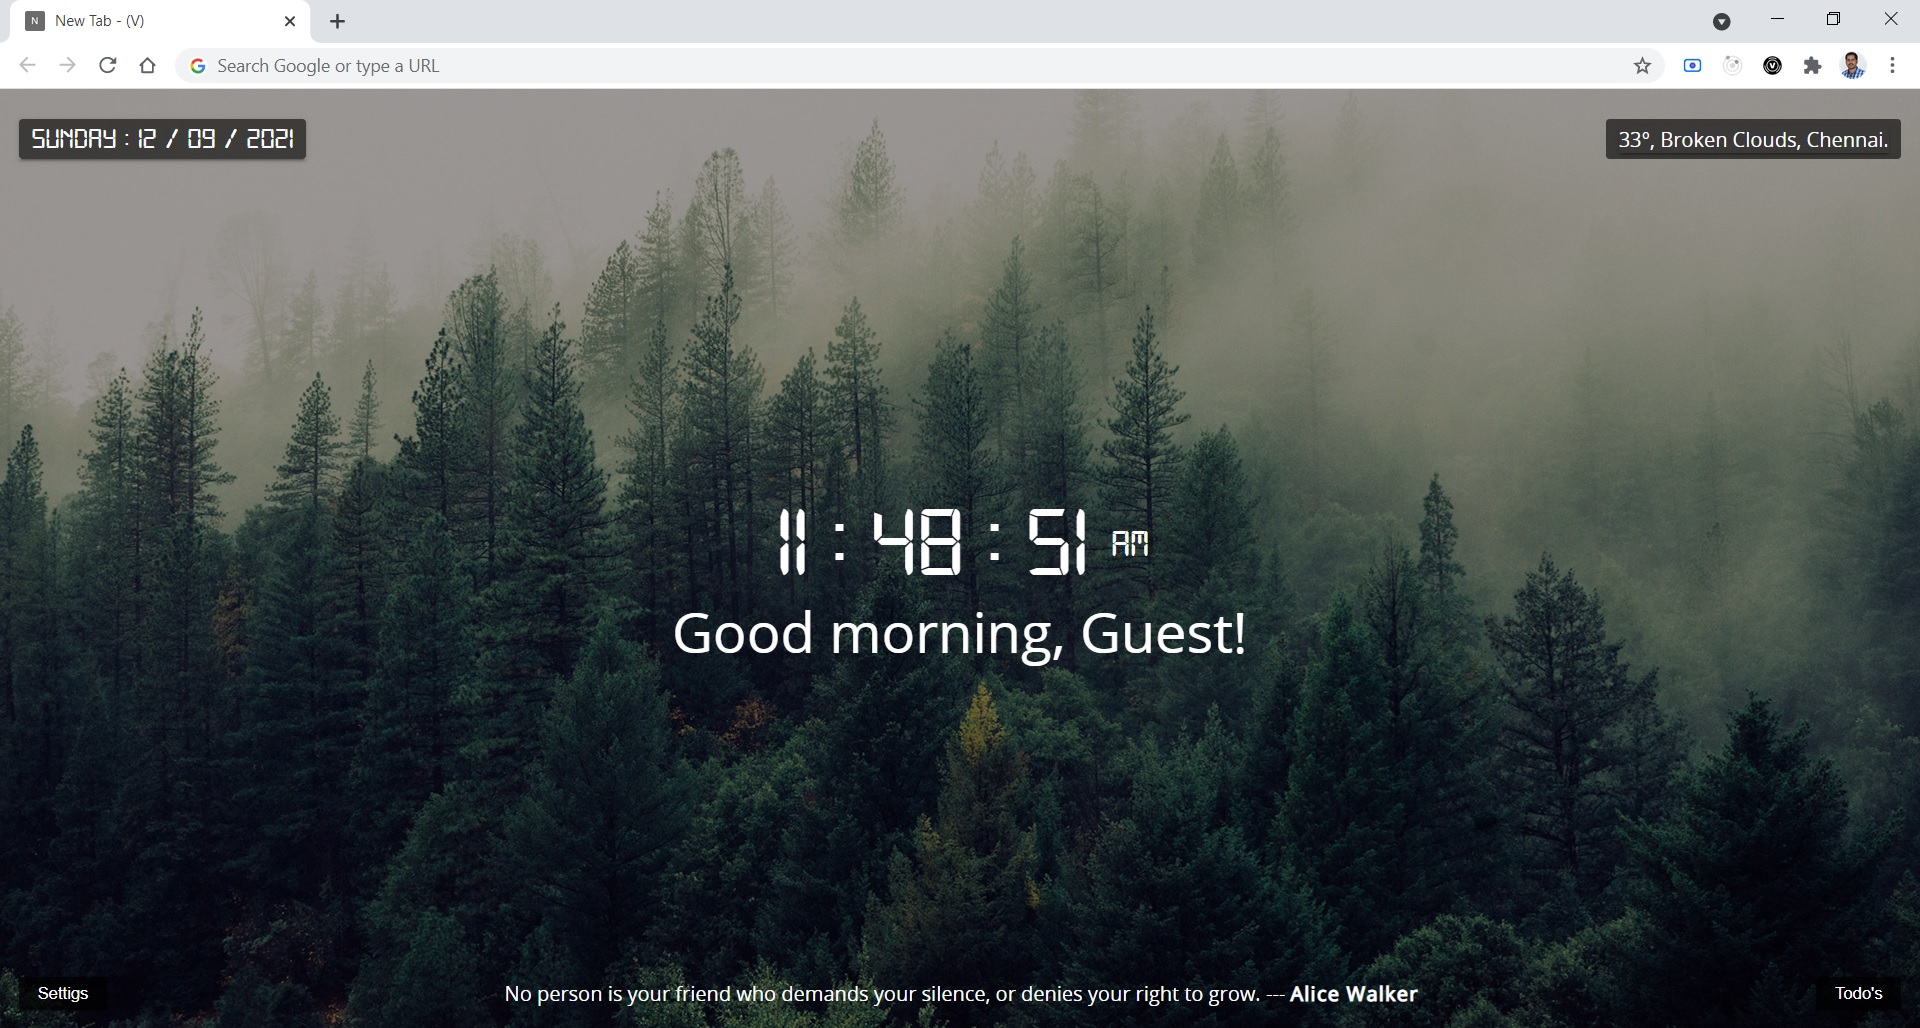
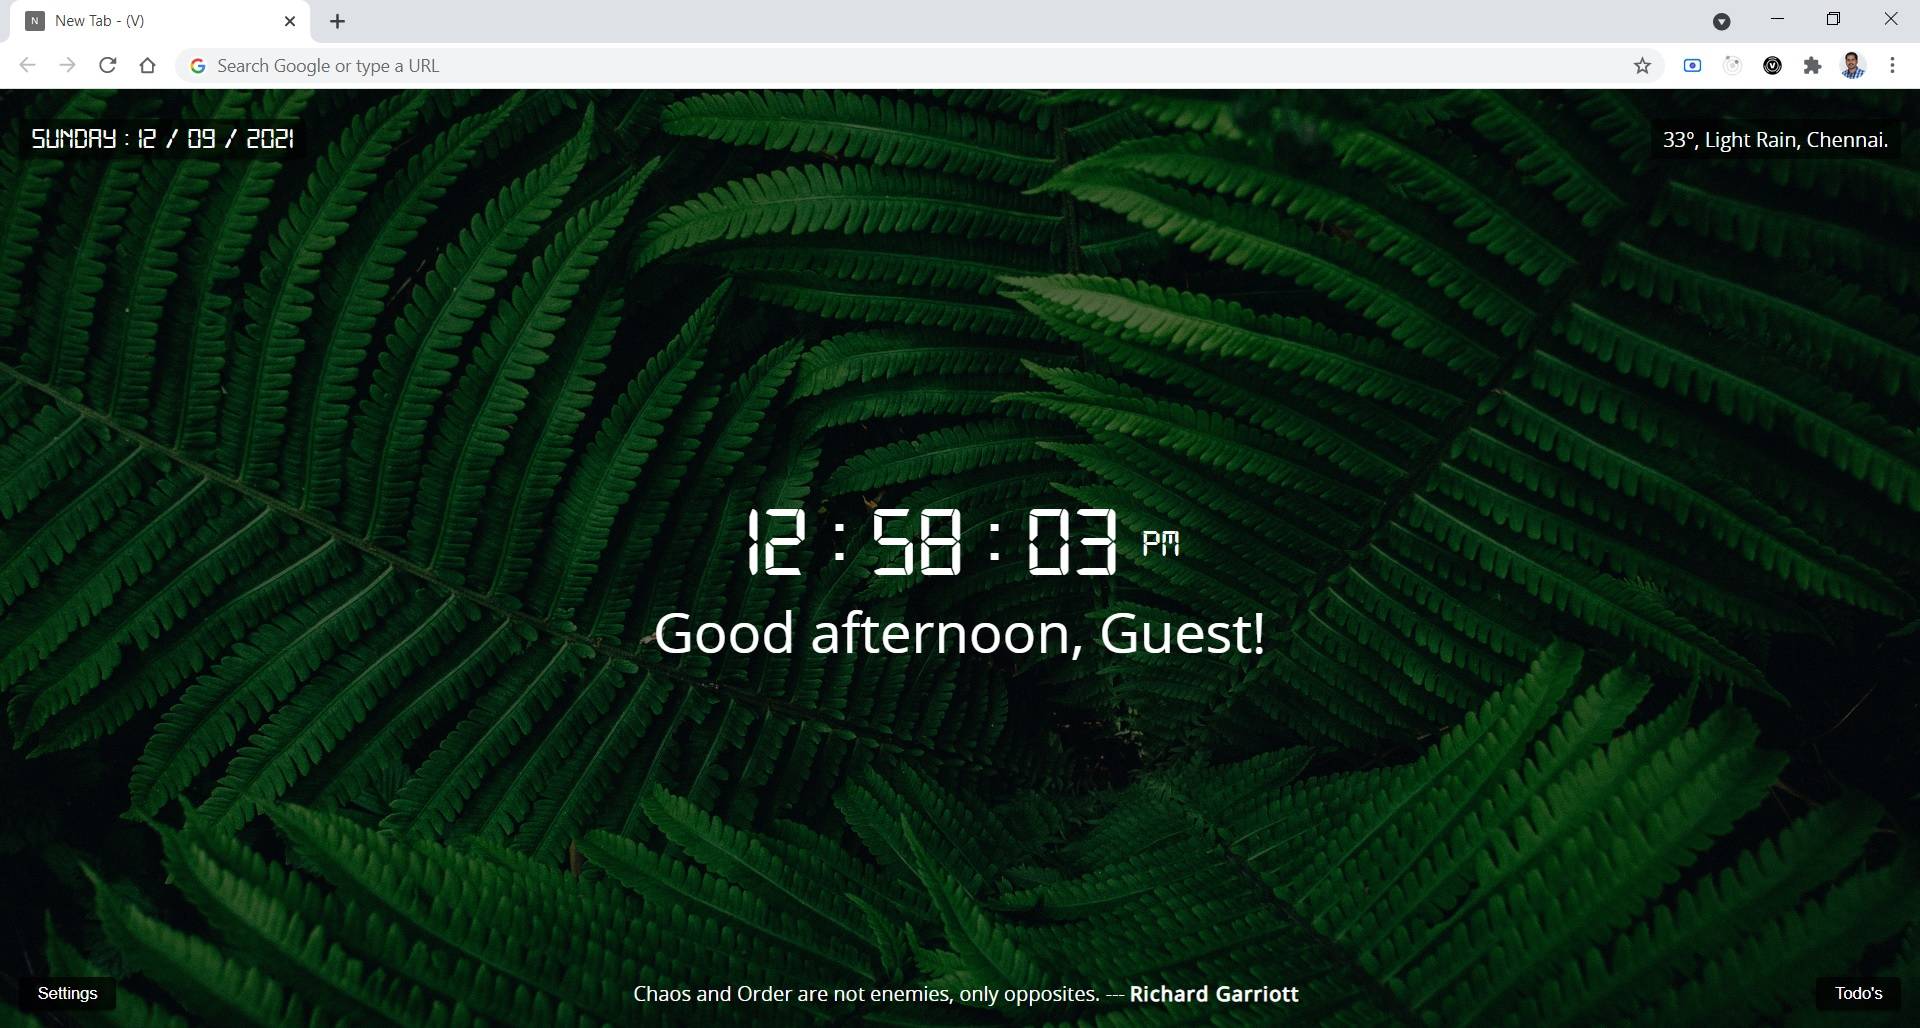
settings options implementing

diff --git a/NewTab/index.js b/NewTab/index.js
@@ -1,16 +1,16 @@
 const newsAPI = '82aa61aa0c8e41f195b1e5da5a02bbd3';
 const weatherAPI = 'ee7282f5ea6e0c75caebf32e113e3813';
 
-// const newsBtn = document.getElementById("newsBtn");
-// const newsModel = document.getElementById("news_model");
-// const sportsBtn = document.getElementById("sportsBtn");
-// const sportsModel = document.getElementById("sports_model");
+// const newsBtn = document.getElementById('newsBtn');
+// const newsModel = document.getElementById('news_model');
+// const sportsBtn = document.getElementById('sportsBtn');
+// const sportsModel = document.getElementById('sports_model');
 
-const settigsBtn = document.getElementById("settigsBtn");
-const settigsModel = document.getElementById("settings_model");
+const settigsBtn = document.getElementById('settigsBtn');
+const settigsModel = document.getElementById('settings_model');
 
-const todosBtn = document.getElementById("todosBtn");
-const todosModel = document.getElementById("todos_model");
+const todosBtn = document.getElementById('todosBtn');
+const todosModel = document.getElementById('todos_model');
 
 let backgroundImage = document.getElementById('backgroundImage');
 
@@ -133,15 +133,15 @@ function loadBgImage() {
 }
 
 function loadQuotes() {
-  fetch("https://type.fit/api/quotes")
+  fetch('https://type.fit/api/quotes')
   .then(function(response) {
     return response.json();
   })
   .then(function(data) {
     const quote = data[getRandomInt(1643)];
     chrome.storage.sync.set({ quote });
-    document.getElementById("quote").innerHTML = quote.text;
-    document.getElementById("quote_author").innerHTML = quote.author;
+    document.getElementById('quote').innerHTML = quote.text;
+    document.getElementById('quote_author').innerHTML = quote.author;
   });
 }
 
@@ -205,8 +205,8 @@ function runOncePerDay() {
       chrome.storage.sync.get('quote', (data) => {
         const quote = data.quote;
         if (quote) {
-          document.getElementById("quote").innerHTML = quote.text;
-          document.getElementById("quote_author").innerHTML = quote.author;
+          document.getElementById('quote').innerHTML = quote.text;
+          document.getElementById('quote_author').innerHTML = quote.author;
         }
         else {
           loadQuotes();
@@ -223,6 +223,61 @@ function runOncePerDay() {
 }
 
 runOncePerDay();
+
+settigsBtn.addEventListener('click', function () {
+  if(settigsModel.classList.contains('active')) {
+    settigsModel.classList.remove('active');
+    settigsBtn.classList.remove('active');
+  }
+  else {
+    settigsModel.classList.add('active');
+    settigsBtn.classList.add('active');
+  }
+});
+
+todosBtn.addEventListener('click', function () {
+  if(todosModel.classList.contains('active')) {
+    todosModel.classList.remove('active');
+    todosBtn.classList.remove('active');
+  }
+  else {
+    todosModel.classList.add('active');
+    todosBtn.classList.add('active');
+  }
+});
+
+const BgOnOffCheckbox = document.getElementById('bg_checkbox');
+const BgRefresh = document.getElementById('bg_refresh');
+const BgReloadBtn = document.getElementById('bg_reload');
+
+chrome.storage.sync.get('isbackground', (data) => {
+  const BgImage = data.isbackground;
+  if (BgImage) {
+    BgOnOffCheckbox.checked = true;
+    BgRefresh.classList.remove('disable');
+  }
+  else {
+    BgOnOffCheckbox.checked = false;
+    BgRefresh.classList.add('disable');
+  }
+});
+
+BgOnOffCheckbox.addEventListener('click', function () {
+  if(BgOnOffCheckbox.checked) {
+    BgRefresh.classList.remove('disable');
+    backgroundImage.classList.remove('hide');
+  }
+  else {
+    BgRefresh.classList.add('disable');
+    backgroundImage.classList.add('hide');
+  }
+});
+
+BgReloadBtn.addEventListener('click', function () {
+  loadBgImage();
+});
+
+
 
 // let page = document.getElementById("backgrounColor");
 // let selectedClassName = "active";
@@ -299,25 +354,3 @@ runOncePerDay();
 //     sportsBtn.classList.add("active");
 //   }
 // });
-
-settigsBtn.addEventListener("click", function () {
-  if(settigsModel.classList.contains("active")) {
-    settigsModel.classList.remove("active");
-    settigsBtn.classList.remove("active");
-  }
-  else {
-    settigsModel.classList.add("active");
-    settigsBtn.classList.add("active");
-  }
-});
-
-todosBtn.addEventListener("click", function () {
-  if(todosModel.classList.contains("active")) {
-    todosModel.classList.remove("active");
-    todosBtn.classList.remove("active");
-  }
-  else {
-    todosModel.classList.add("active");
-    todosBtn.classList.add("active");
-  }
-});

diff --git a/NewTab/index.css b/NewTab/index.css
@@ -69,6 +69,10 @@ button.active {
   color: #000000;
 }
 
+.hide {
+  display: none;
+}
+
 .disable {
   opacity: 0.5;
   pointer-events: none;
@@ -233,7 +237,7 @@ button.active {
   left: 15px;
   bottom: 65px;
   transform: inherit;
-  width: 25%;
+  width: 300px;
   height: 60%;
 }
 
@@ -242,6 +246,54 @@ button.active {
   right: 15px;
 }
 
+.option {
+  display: flex;
+  justify-content: space-between;
+  align-items: center;
+  margin-bottom: 5px;
+  font-size: 0.9rem;
+}
+
+.reload {
+  font-size: 1.5rem;
+  cursor: pointer;
+}
+
+.option span {
+  display: inline-block;
+  margin-right: 15px;
+}
+
+.switch input {
+  position: absolute;
+  opacity: 0;
+}
+
+.switch {
+  position: relative;
+  display: inline-block;
+  font-size: 20px;
+  height: 1rem;
+  width: 2rem;
+  background: #ffffff;
+  border-radius: 1em;
+  cursor: pointer;
+}
+
+.switch div {
+  height: 0.8rem;
+  width: 0.8rem;
+  margin: 2px;
+  border-radius: 0.8em;
+  background: #333333;
+  box-shadow: 0 0.1rem 0.3rem rgba(0,0,0,0.3);
+  transition: all 300ms;
+}
+
+.switch input:checked + div {
+  background: #79e902;
+  transform: translate3d(120%, 0, 0);
+}
 
 
 /* 

diff --git a/NewTab/index.html b/NewTab/index.html
@@ -44,7 +44,7 @@
       <h1 class="greeting">Good <span id="timeframe"></span>, Guest!</h1>
     </div>
     <footer>
-      <button id="settigsBtn">Settigs</button>
+      <button id="settigsBtn">Settings</button>
       <div class="quotes">
         <span id="quote"></span> ---
         <span id="quote_author"></span>
@@ -60,7 +60,17 @@
       <div id="sports_feed">Loading...</div>
     </div>
     <div id="settings_model" class="model model_settings shadow">
-      <p>Settings:</p>
+      <div class="option">
+        <span>Background Image</span>
+        <label class="switch">
+          <input id="bg_checkbox" type="checkbox" />
+          <div></div>
+        </label>
+      </div>
+      <div id="bg_refresh" class="option disable">
+        <span>Background image refresh</span>
+        <span id="bg_reload" class=reload>&#x21bb;</span>
+      </div>
     </div>
     <div id="todos_model" class="model model_todos shadow">
       <p>Todo's:</p>

diff --git a/README.md b/README.md
@@ -23,7 +23,7 @@ Building my first chrome extension
 2. Dynamic quote one for day. Every next day we will see different quote.
 
 ## In progress features:
-1. Settigns dialog.
+1. Settings dialog.
 2. Todo's dialog.
 3. Background image category dropdown under settings dialog if user want to change default category nature.
 4. Off Background image and On Background color with multiple options.
